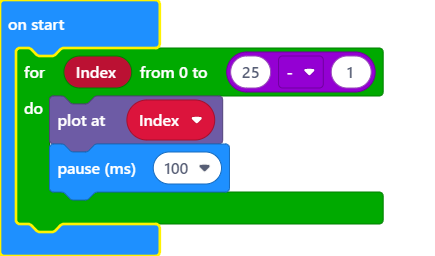
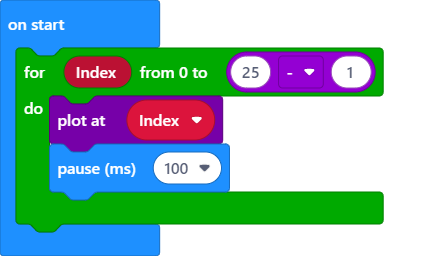
Update pxt.json, main.blocks, Custom.ts

Changed region(s): [[0.0, 0.0, 0.3885, 1.0], [0.0897, 0.3438, 0.5379, 0.5938]]

diff --git a/Custom.ts b/Custom.ts
@@ -1,3 +1,4 @@
+//% color=#8854d0 weight=31 icon="\uf03e"
 namespace screenMagic {
     /**
      * Address LEDs linearly row first
